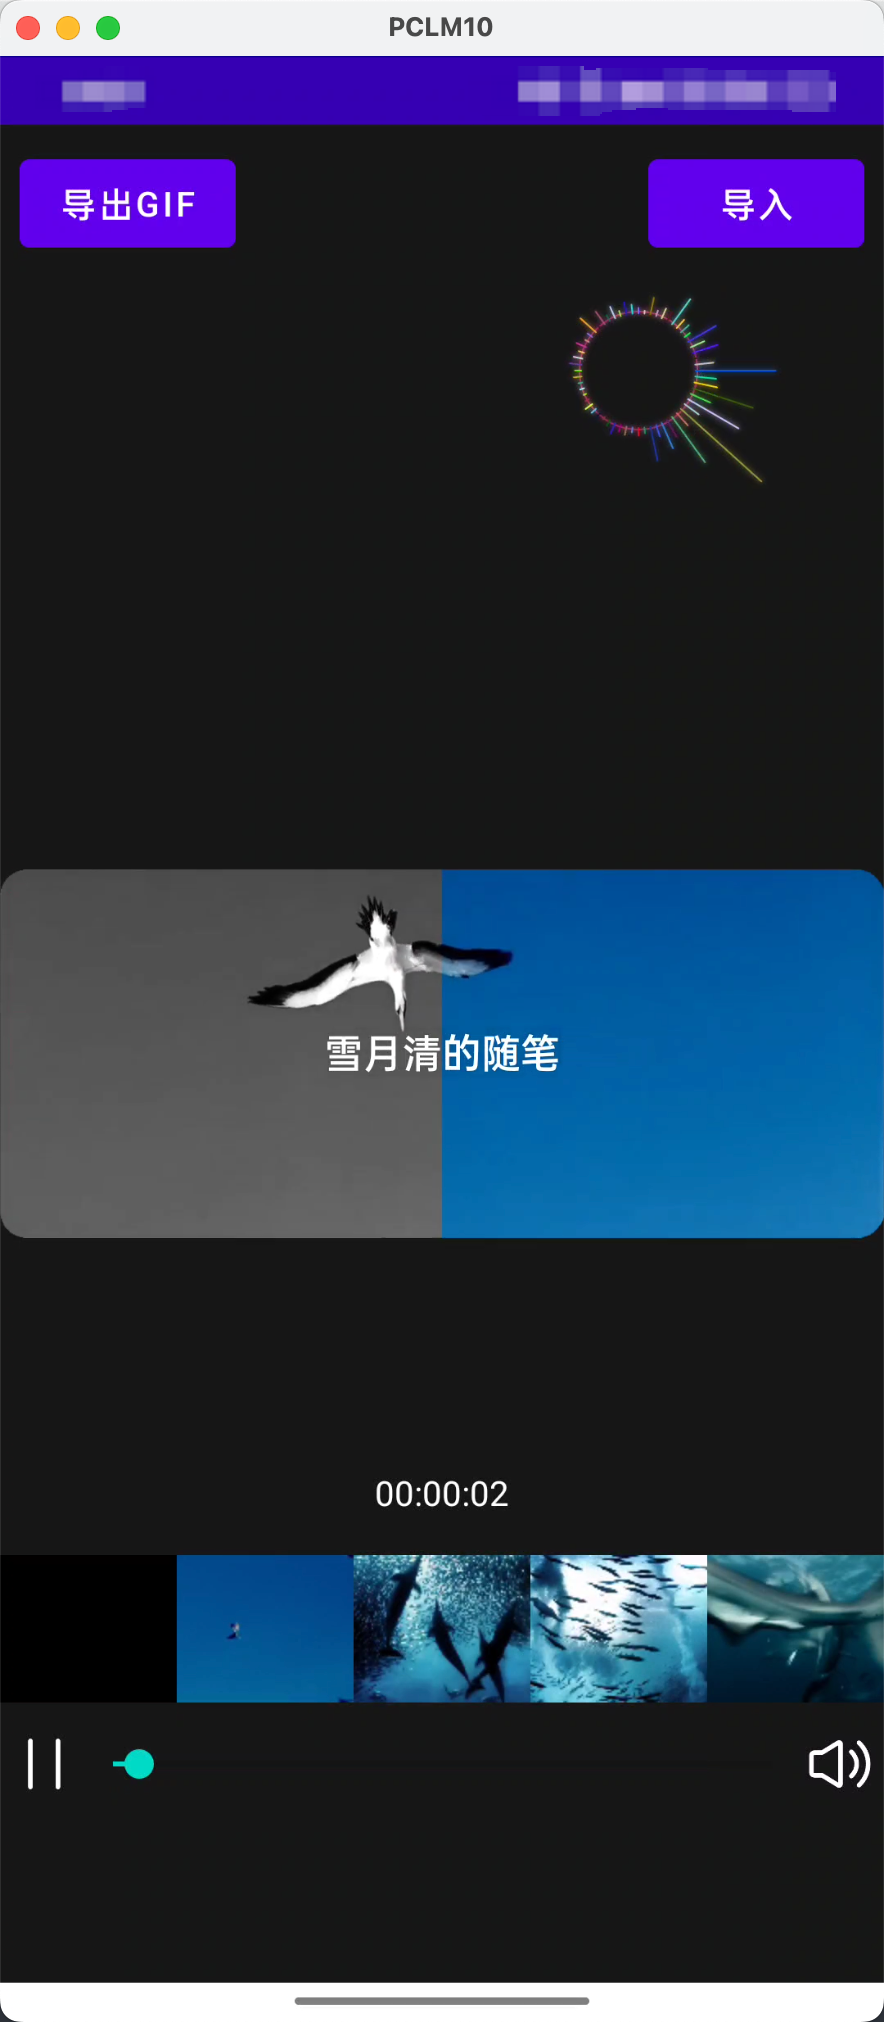
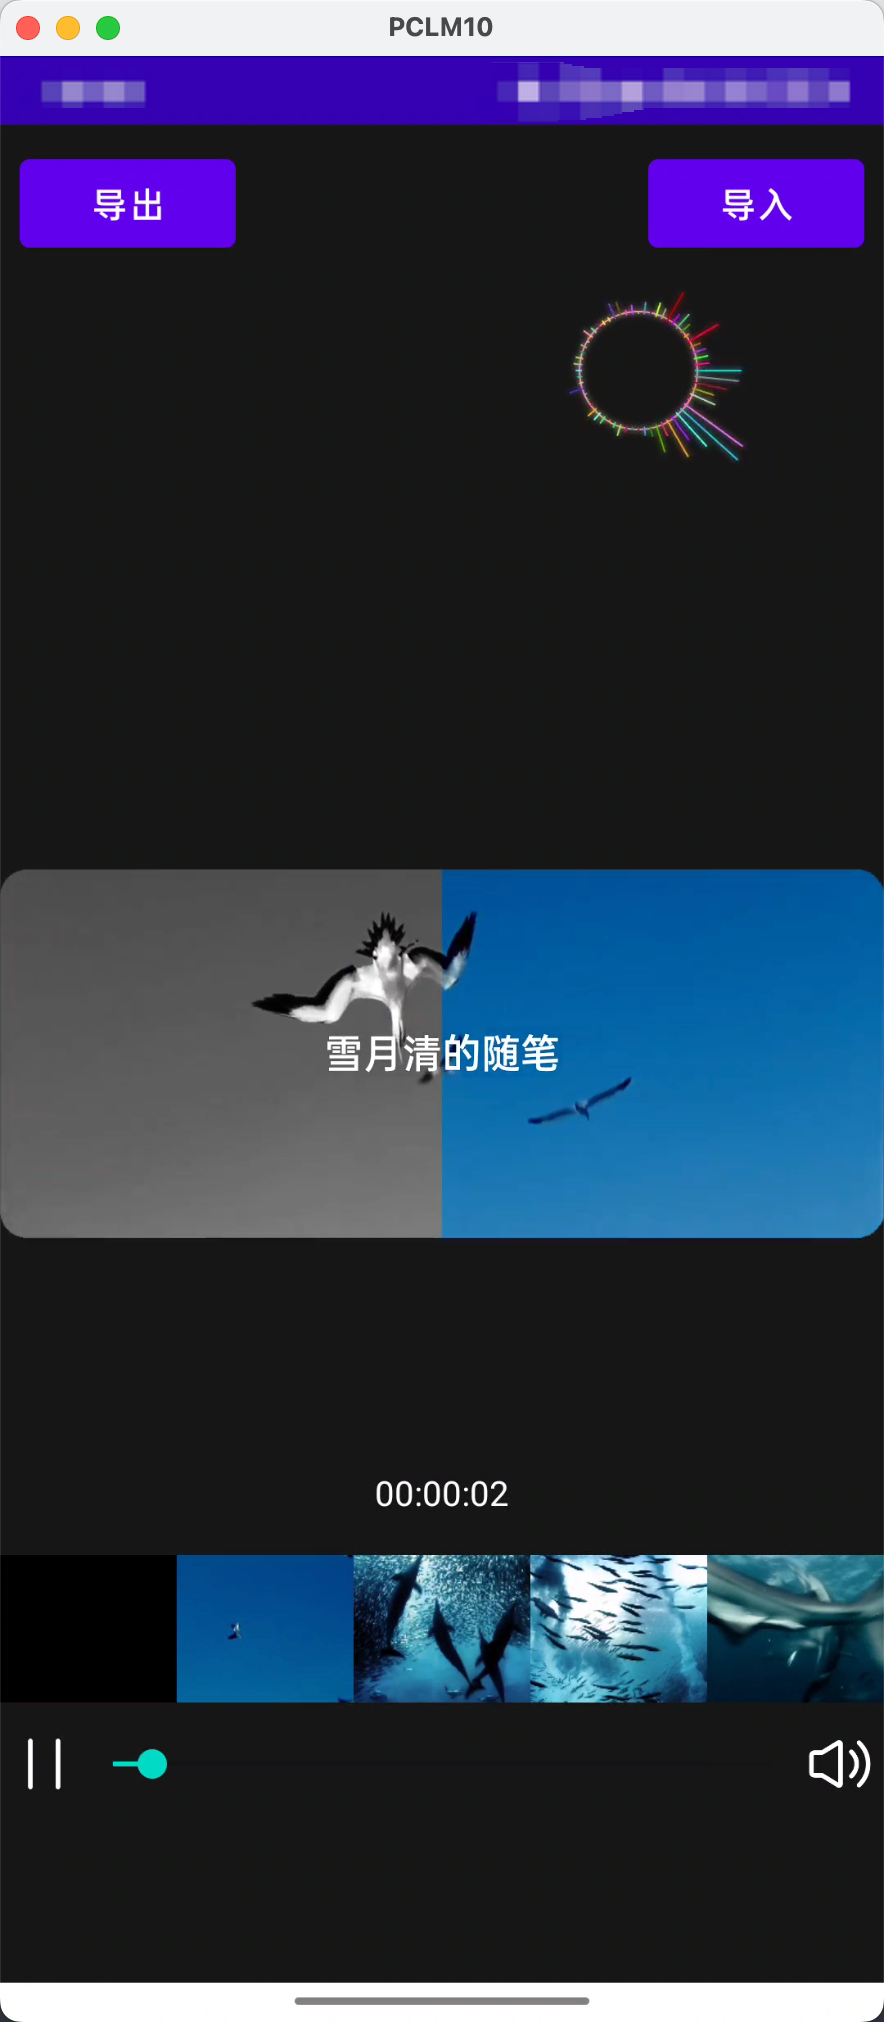
update README

diff --git a/app/src/main/java/com/xyq/ffmpegdemo/player/MyPlayer.kt b/app/src/main/java/com/xyq/ffmpegdemo/player/MyPlayer.kt
@@ -135,6 +135,7 @@ class MyPlayer(private val mContext: Context,
             throw IllegalStateException("must first call setDataSource")
         }
 
+        val start = System.currentTimeMillis()
         initProxy(config, isVideo)
         if (isVideo) {
             prepareSurfaceIfNeed(config)
@@ -147,7 +148,7 @@ class MyPlayer(private val mContext: Context,
         mDuration = getDuration()
         mVideoRotate = mProxy.getRotate()
         mRenderManager.setVideoRotate(mVideoRotate)
-        Log.i(TAG, "prepare: done, duration: $mDuration, rotate: $mVideoRotate")
+        Log.i(TAG, "prepare: done, duration: $mDuration, rotate: $mVideoRotate, consume: ${System.currentTimeMillis() - start}")
     }
 
     private fun initProxy(config: PlayerConfig, isVideo: Boolean) {

diff --git a/app/src/main/java/com/xyq/ffmpegdemo/MainActivity.kt b/app/src/main/java/com/xyq/ffmpegdemo/MainActivity.kt
@@ -69,6 +69,7 @@ class MainActivity : AppCompatActivity() {
     private val mLauncher: ActivityResultLauncher<Intent> =
         registerForActivityResult(ActivityResultContracts.StartActivityForResult()) { result ->
             if (result.resultCode == PickerConfig.RESULT_CODE) {
+                Log.i(TAG, "select media file done")
                 val select = result.data?.getParcelableArrayListExtra<Media>(PickerConfig.EXTRA_RESULT)
                 if (select.isNullOrEmpty()) return@registerForActivityResult
                 val media = select[0]

diff --git a/README.md b/README.md
@@ -1,9 +1,13 @@
 # FFMpeg Demo
 
-基于FFMpeg5.0.1版本的学习型Demo，通过FFMpeg提供的硬解(MediaCodec)和软解两种方式进行音视频文件的渲染和播放(滤镜效果包括：圆角滤镜和灰度滤镜)
+基于FFMpeg5.0.1版本的学习型Demo，通过FFMpeg提供的硬解(MediaCodec)和软解两种方式进行音视频文件的渲染和播放(滤镜效果包括：灰度滤镜和圆角滤镜)
 
-| ![主页](./img_main.png) | ｜![媒体文件选择](./img_media_picker.png) |
-|-----------------------|------------------------------------|
+导入：本地文件选择和相机录制两种方式
+
+导出：导入图片时导出为JPEG(带特效)，导入视频时导出为GIF(仅视频关键帧且不带特效)
+
+| ![主页](./img_main.png) | ![本地文件选择](./img_media_picker.png) | ![拍摄](./img_import_capture.png) |
+|-----------------------|-----------------------------------|---------------------------------|
 
 文章原创首发于微信公众号“雪月清的随笔”，欢迎关注
 
